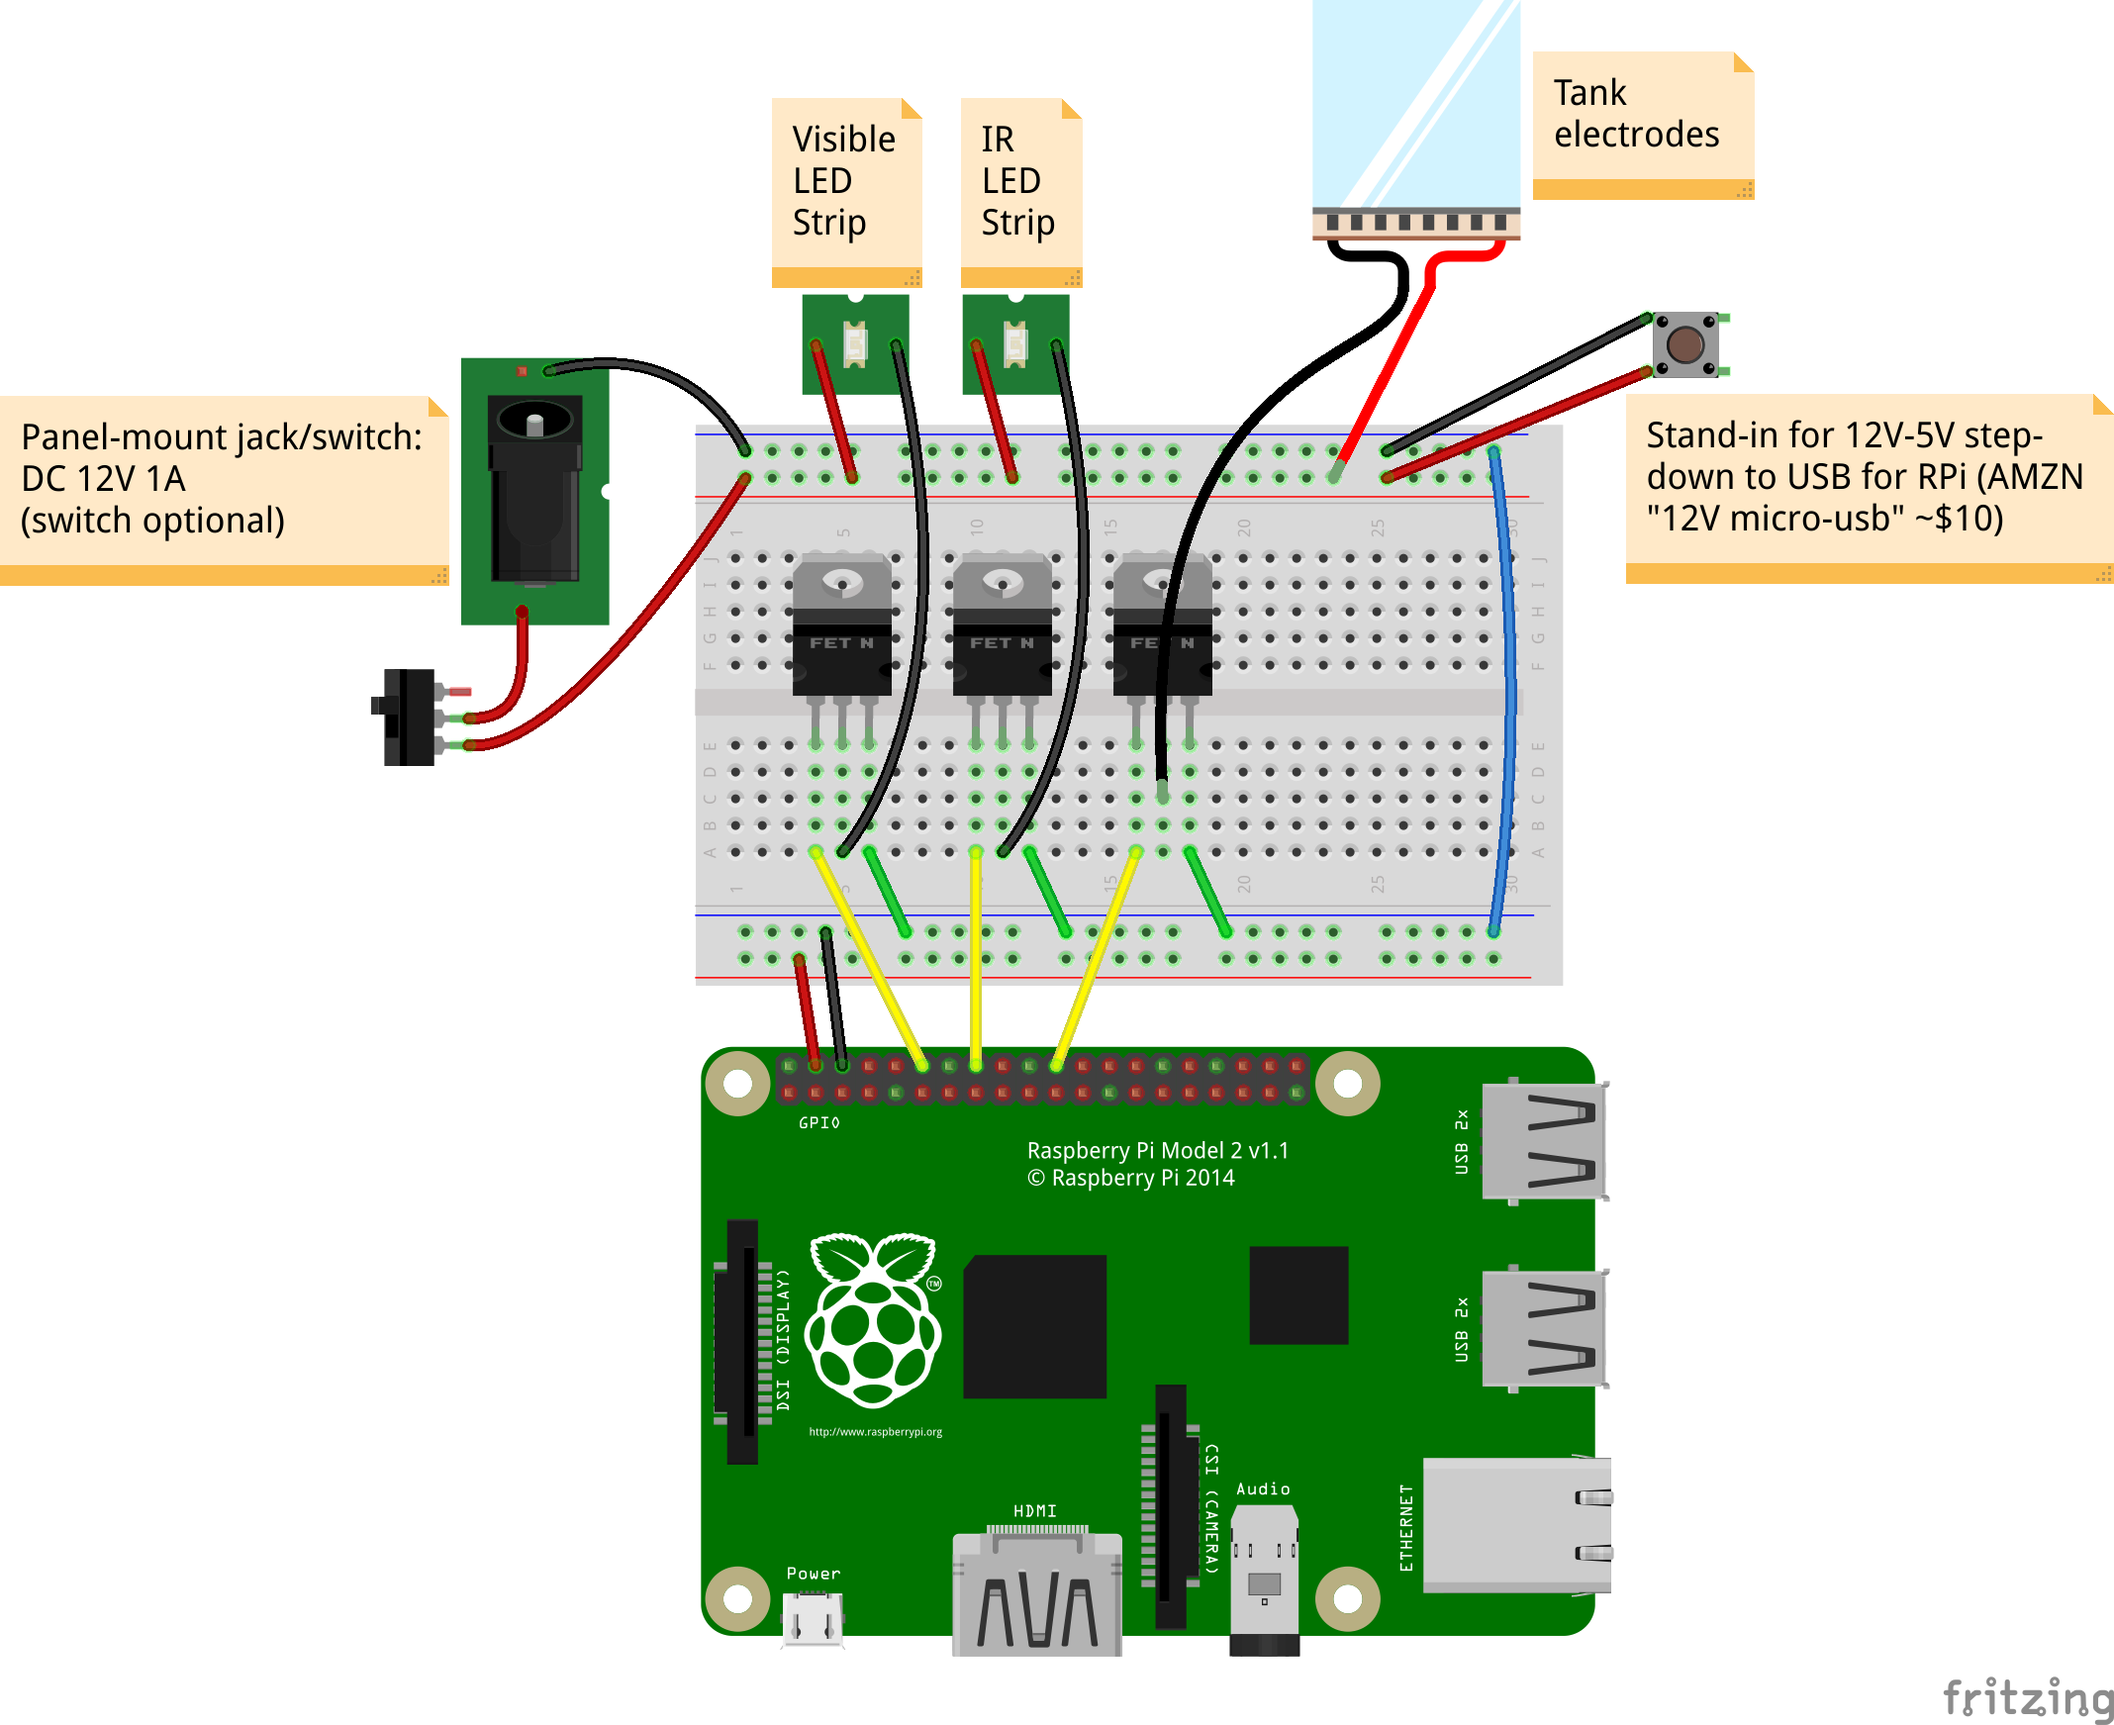
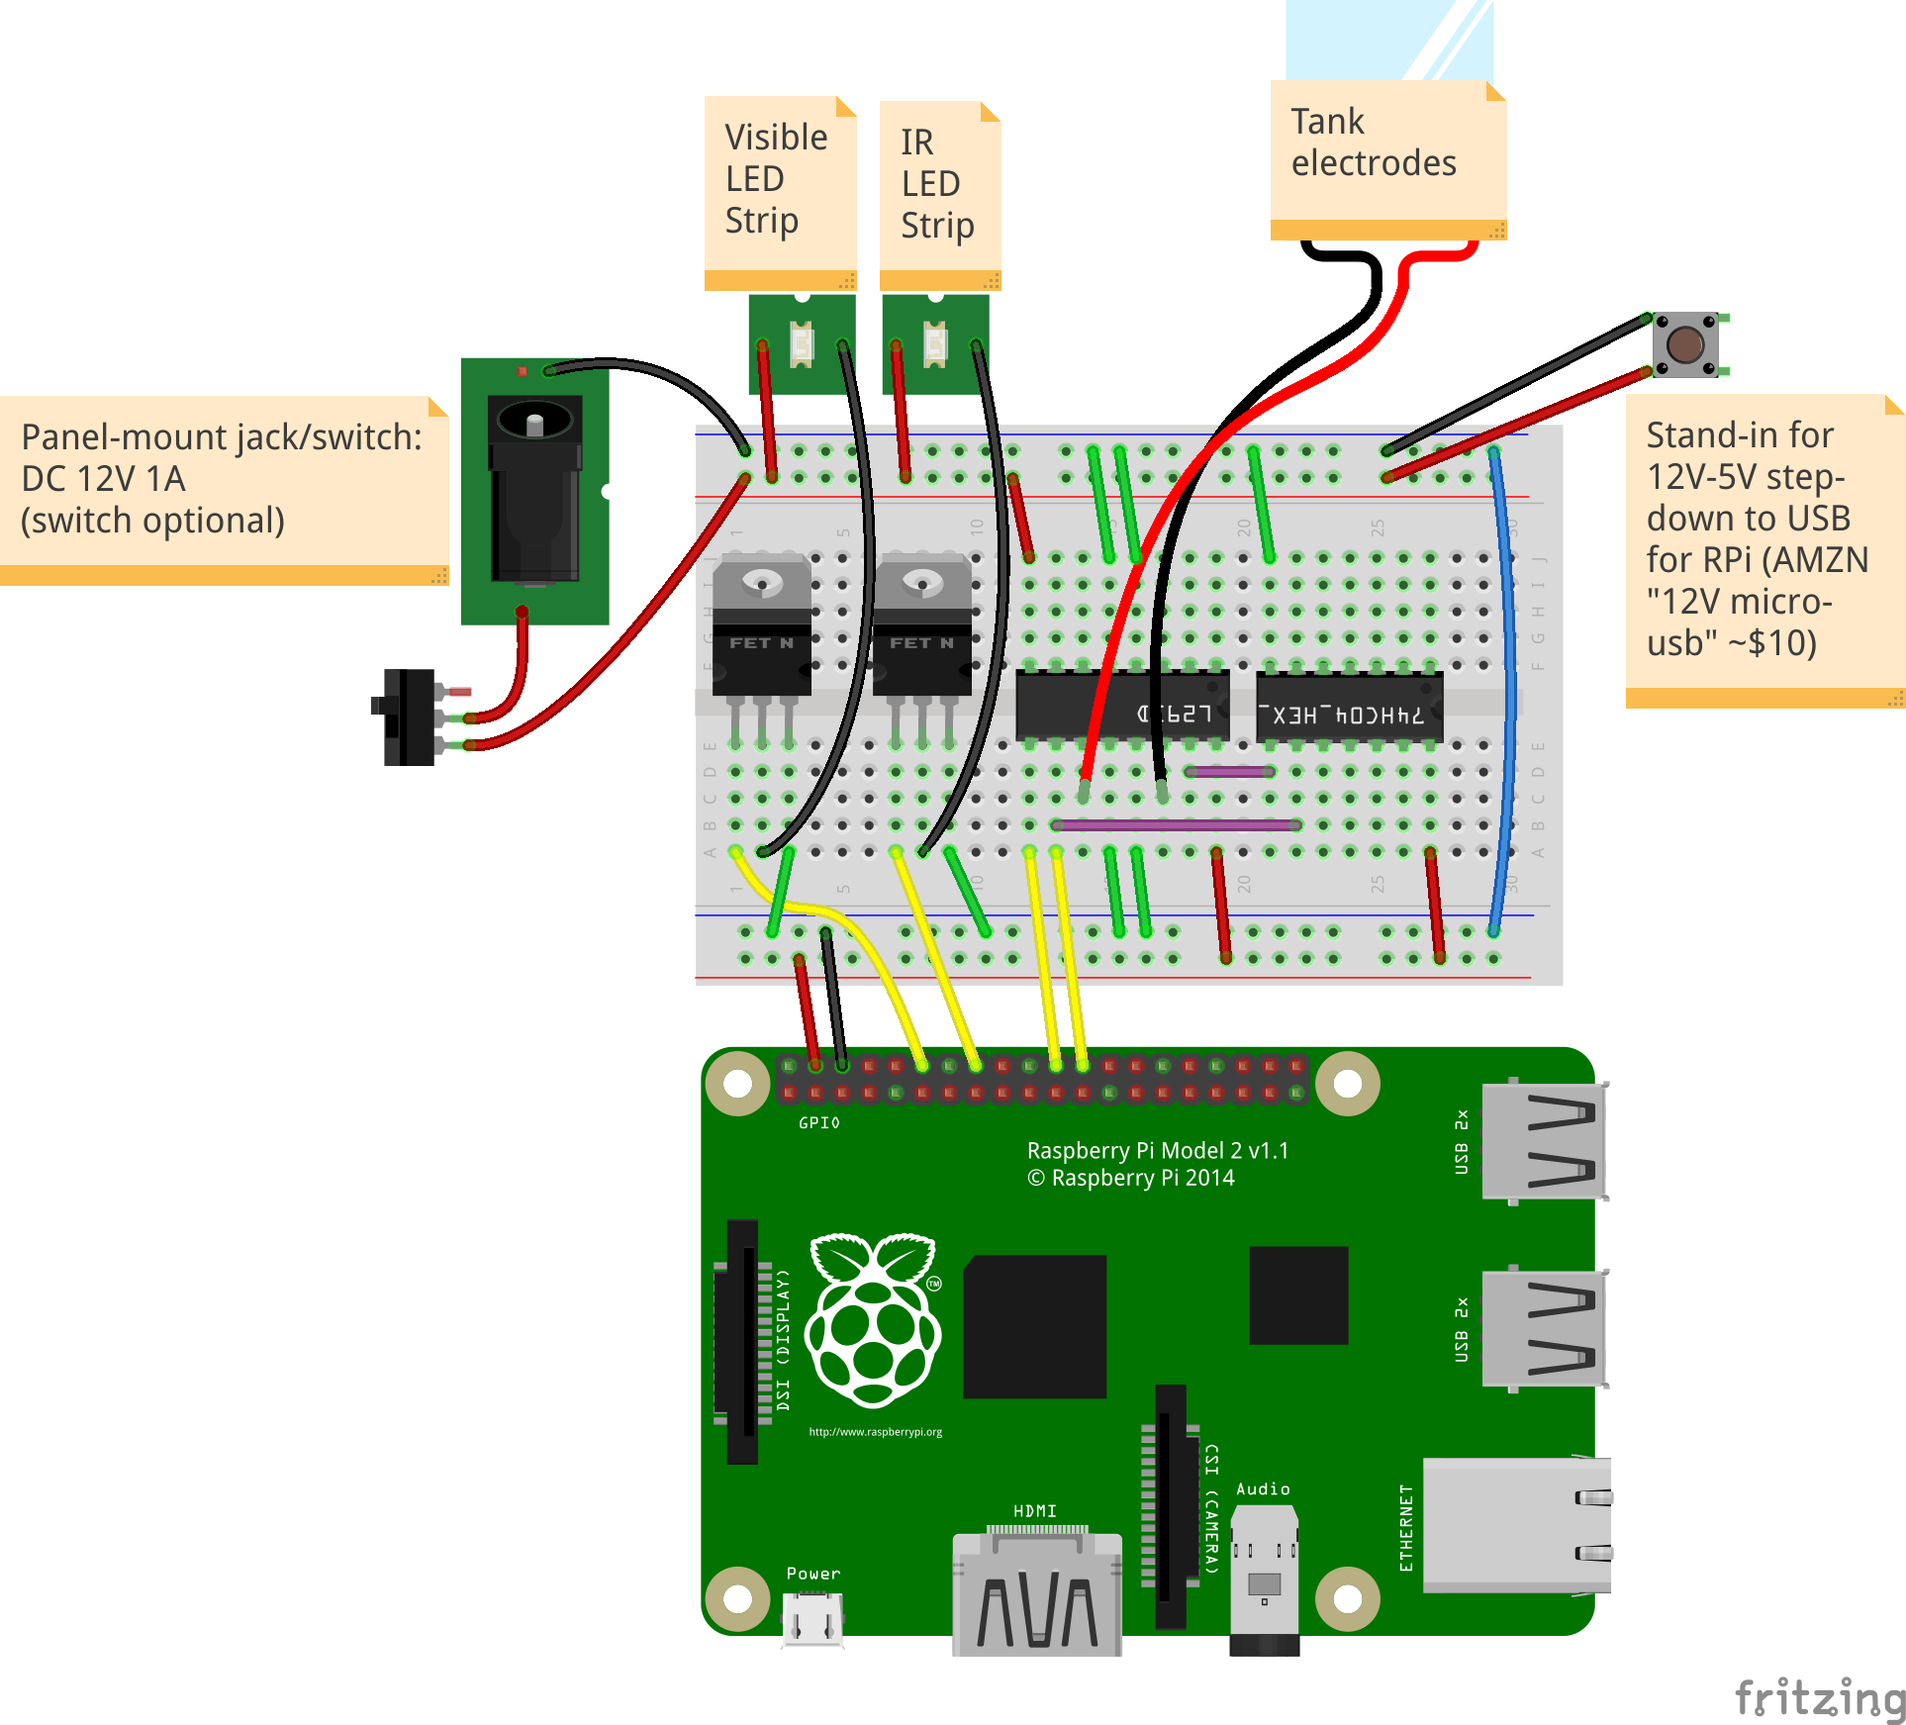
Add alternating electrical stimulus (to circuit and code).

Changed region(s): [[0.0, 0.0, 1.0, 0.9604], [0.9034, 0.9604, 1.0, 1.0]]

diff --git a/src/box/stimulus.py b/src/box/stimulus.py
@@ -10,8 +10,9 @@ from threading import Timer
 from box import wiring
 
 
-_LIGHT_PWM_PIN = 18      # pin for PWM control of visible light bar
-_ELECTRIC_STIM_PIN = 25  # pin for control of the electric current stimulation
+_LIGHT_PWM_PIN = 18         # pin for PWM control of visible light bar
+_ELECTRIC_STIM_PIN = 25     # pin for enabling/disabling the electric current stimulation
+_ELECTRIC_AC_PIN = 8        # pin for alternating the "direction" of the stimulus (when using AlternatingElectricalStimulus)
 
 
 class NotRootError(RuntimeError):
@@ -151,7 +152,6 @@ class GPIOStimulus(ThreadedStimulus):
         else:
             self._on_interval = 1.0 / freq_Hz * duty_cycle
             self._off_interval = 1.0 / freq_Hz * (1 - duty_cycle)
-            print(self._on_interval, self._off_interval)
 
         if safety_limit is not None:
             self._watchdog = Watchdog(safety_limit, self._pipe)
@@ -195,6 +195,7 @@ class GPIOStimulus(ThreadedStimulus):
         else:
             self._stim_active = False
             self._pin_on = False
+            self._stim_cycle_end = None  # so next activation starts in On phase of cycle
 
     def _update(self):
         if self._stim_active:
@@ -273,6 +274,36 @@ class ElectricalStimulus(GPIOStimulus):
         super(ElectricalStimulus, self).__init__(
             _ELECTRIC_STIM_PIN,
             freq_Hz=freq_Hz,
+            duty_cycle=duty_cycle,
+            safety_limit=safety_limit
+        )
+
+
+class AlternatingElectricalStimulus(GPIOStimulus):
+    '''
+    Control an "alternating" electrical stimulus via two pins.
+
+    One pin ("enable") will turn on (high) when stimulus is active, optinally
+    with a safety limit, cycling frequency (active_freq_Hz), and duty cycle.
+    The other pin is set to constantly cycle high/low at another frequency
+    (ac_freq_Hz).
+    '''
+    def __init__(self, safety_limit=None, ac_freq_Hz=None, active_freq_Hz=None, duty_cycle=None):
+        '''
+        Parameters:
+            ac_freq_Hz: float, frequency of alternations while stimulus is on
+            active_freq_Hz: float, frequency of toggling electrical stimulus on and off
+            duty_cycle: float, percentage of time stimulus is on during one cycle
+            safety_limit: integer number of seconds; if stimulus active without
+                          a break for that long, terminate experiment.
+        '''
+        # First, setup the alternating pin
+        wiring.tone(_ELECTRIC_AC_PIN, ac_freq_Hz)
+
+        # Then, setup the "enable" pin as a normal GPIO stimulus
+        super(AlternatingElectricalStimulus, self).__init__(
+            _ELECTRIC_STIM_PIN,
+            freq_Hz=active_freq_Hz,
             duty_cycle=duty_cycle,
             safety_limit=safety_limit
         )

diff --git a/src/box/wiring.py b/src/box/wiring.py
@@ -33,6 +33,11 @@ def pwm(pin, val):
     wiringpi.pwmWrite(pin, val)
 
 
+def tone(pin, freq):
+    wiringpi.softToneCreate(pin)
+    wiringpi.softToneWrite(pin, freq)
+
+
 def IR_on():
     out(_IR_GPIO_PIN, 1)  # turn on IR light bar
     atexit.register(IR_off)
